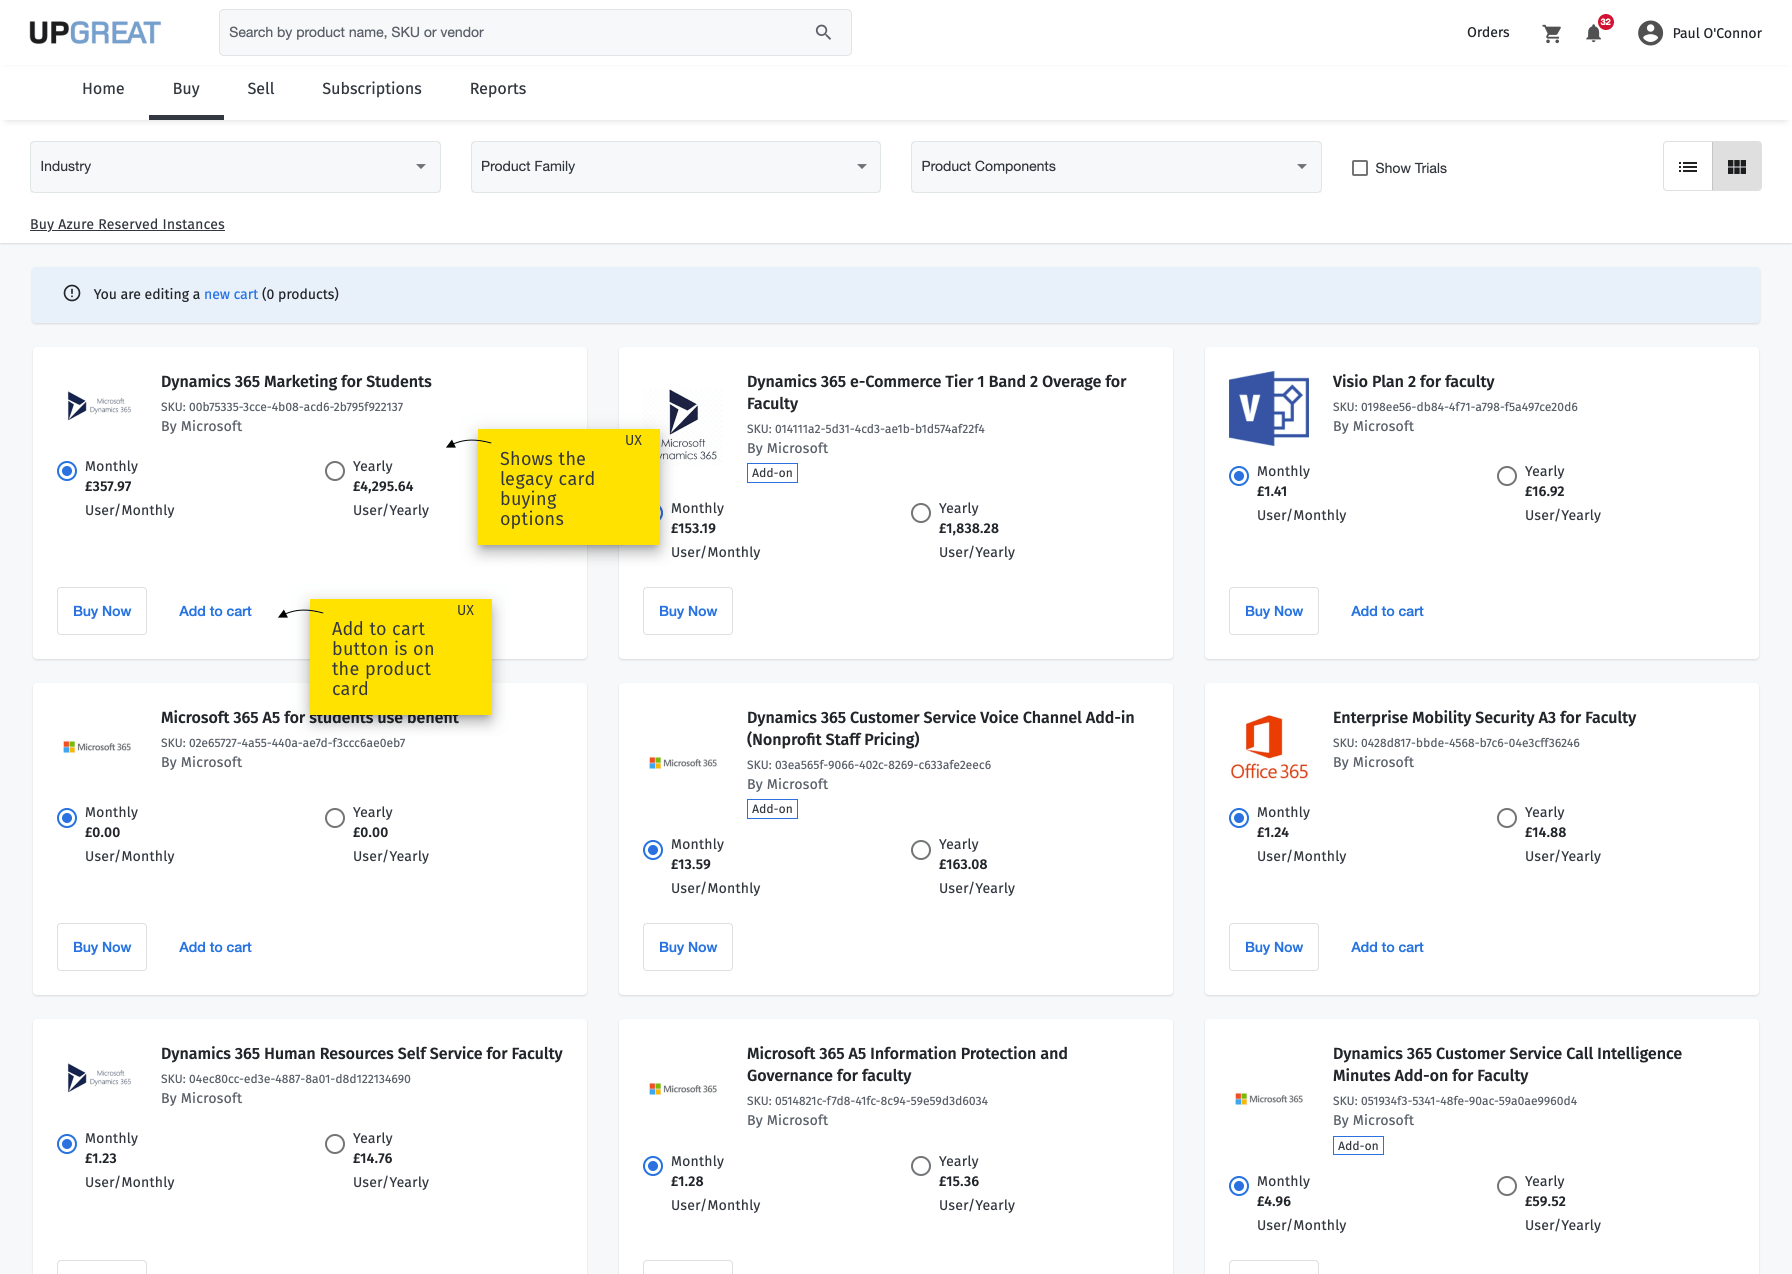
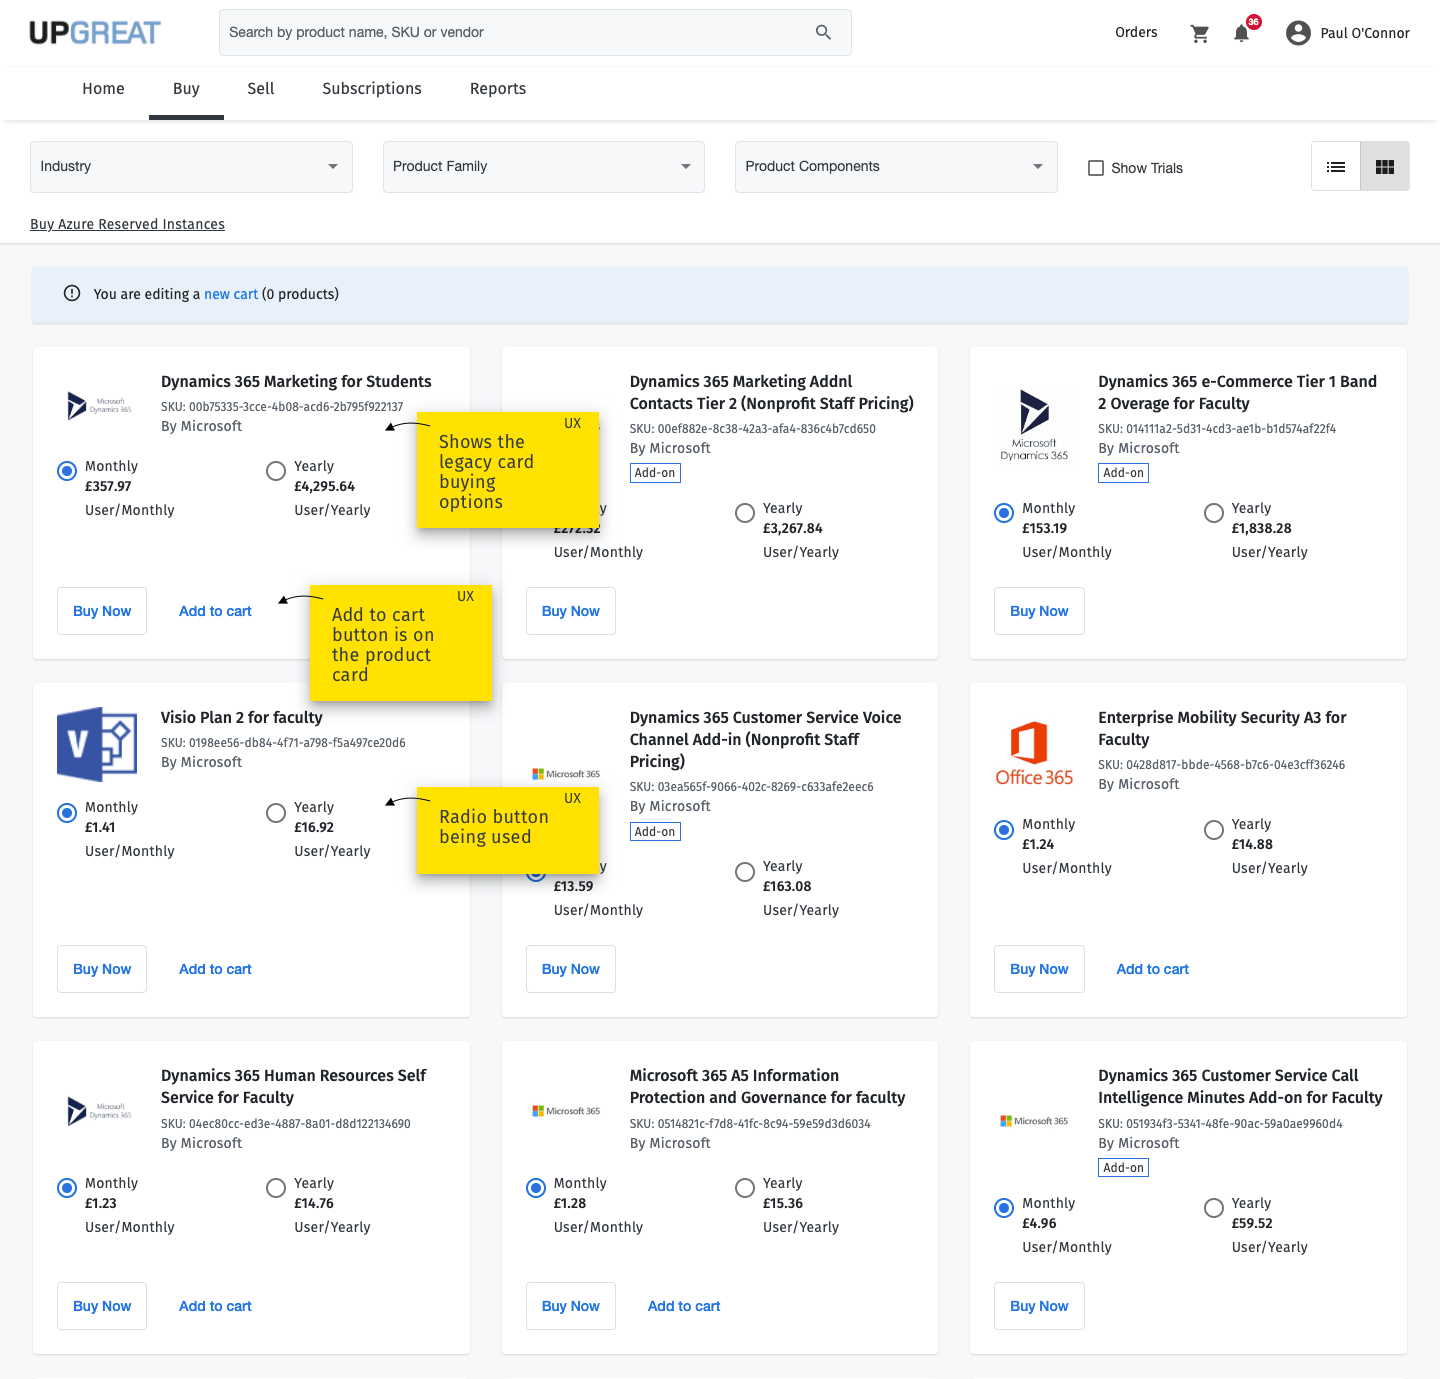
fixing design card size

diff --git a/NCE.html b/NCE.html
@@ -165,7 +165,7 @@ experience. The project was undertaken from February-June 2022, in conjunction w
                              <p class="portfolio-detail-body">
 
                             An early approach was to to intorduce the thrid buying option onto the product card in the product list. This design was tested but failed the UAT with users, as it was 
-                            felt to be overly complex and confusing. 
+                            felt to be overly complex and confusing. The legacy design was not scalable and so a new approach was needed.
                                          </p>
                                          </div>
                                          </div>
